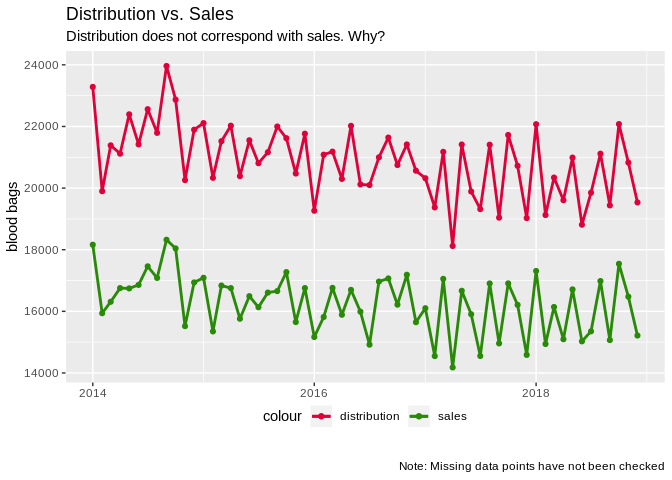
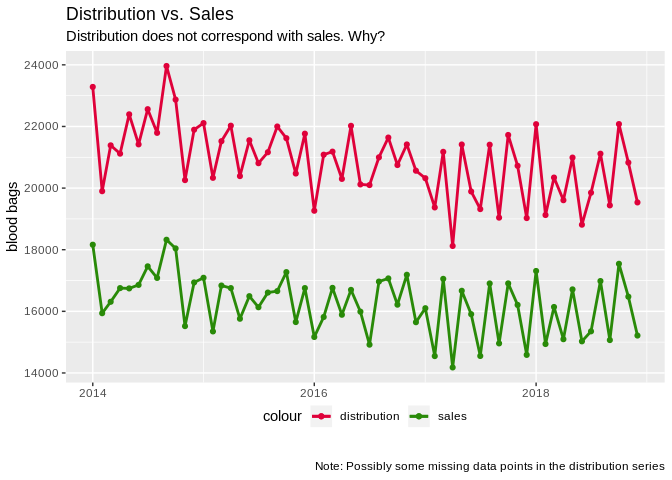
fix displayed errors

Changed region(s): [[0.4688, 0.9688, 1.0, 1.0]]

diff --git a/src/delivery_lab.md b/src/delivery_lab.md
@@ -109,6 +109,121 @@ ABplus.distr <- aggregate(ABplus$quantity, by = list(ABplus$date), sum); colname
 we have the problem where the smaller ABO series don’t add up to
 “all.distr”.*
 
+## Data goodness checks
+
+``` r
+alldates <- seq(from = as.Date("2014-01-01"), to = as.Date("2019-07-07"), by = "day")
+typedates <- list(all.distr$date, Ominus.distr$date, Oplus.distr$date, Aminus.distr$date, Aplus.distr$date, Bminus.distr$date, Bplus.distr$date, ABminus.distr$date, ABplus.distr$date)
+types <- list("All", "O-", "O+", "A-", "A+", "B-", "B+", "AB-", "AB+")
+for(i in seq(9)){
+  cat("Missing observations in ", types[[i]], ": ", length(alldates[!alldates %in% typedates[[i]]]), "\n")
+}
+```
+
+    ## Missing observations in  All :  0 
+    ## Missing observations in  O- :  7 
+    ## Missing observations in  O+ :  0 
+    ## Missing observations in  A- :  32 
+    ## Missing observations in  A+ :  0 
+    ## Missing observations in  B- :  129 
+    ## Missing observations in  B+ :  33 
+    ## Missing observations in  AB- :  353 
+    ## Missing observations in  AB+ :  140
+
+Some blood types seem to have quite a lot of missing days. Let’s look at
+the series more closely to get an estimate of the ratio between zeros
+and actual missing data.
+
+``` r
+ggplot(data = all.distr, aes(x = pcs)) + geom_histogram(binwidth = 1) + 
+  labs(title = "All",
+       subtitle = "Smallest value found: 2",
+       caption = "", 
+       x = "pcs", y = "count")
+```
+
+![](delivery_lab_files/figure-gfm/histograms-1.png)<!-- -->
+
+``` r
+ggplot(data = Ominus.distr, aes(x = pcs)) + geom_histogram(binwidth = 1) + 
+  labs(title = "O-",
+       subtitle = "All 7 missing values could be zeroes",
+       caption = "", 
+       x = "pcs", y = "count")
+```
+
+![](delivery_lab_files/figure-gfm/histograms-2.png)<!-- -->
+
+``` r
+ggplot(data = Oplus.distr, aes(x = pcs)) + geom_histogram(binwidth = 1) + 
+  labs(title = "O+",
+       subtitle = "Smallest value found: 4",
+       caption = "", 
+       x = "pcs", y = "count")
+```
+
+![](delivery_lab_files/figure-gfm/histograms-3.png)<!-- -->
+
+``` r
+ggplot(data = Aminus.distr, aes(x = pcs)) + geom_histogram(binwidth = 1) + 
+  labs(title = "A-",
+       subtitle = "All 32 missing values could be zeroes",
+       caption = "", 
+       x = "pcs", y = "count")
+```
+
+![](delivery_lab_files/figure-gfm/histograms-4.png)<!-- -->
+
+``` r
+ggplot(data = Aplus.distr, aes(x = pcs)) + geom_histogram(binwidth = 1) + 
+  labs(title = "A+",
+       subtitle = "Smallest value found: 1",
+       caption = "", 
+       x = "pcs", y = "count")
+```
+
+![](delivery_lab_files/figure-gfm/histograms-5.png)<!-- -->
+
+``` r
+ggplot(data = Bminus.distr, aes(x = pcs)) + geom_histogram(binwidth = 1) + 
+  labs(title = "B-",
+       subtitle = "129 zeroes would be a lot, possibly missing data?",
+       caption = "", 
+       x = "pcs", y = "count")
+```
+
+![](delivery_lab_files/figure-gfm/histograms-6.png)<!-- -->
+
+``` r
+ggplot(data = Bplus.distr, aes(x = pcs)) + geom_histogram(binwidth = 1) + 
+  labs(title = "B+",
+       subtitle = "All 33 missing values could be zeroes",
+       caption = "", 
+       x = "pcs", y = "count")
+```
+
+![](delivery_lab_files/figure-gfm/histograms-7.png)<!-- -->
+
+``` r
+ggplot(data = ABminus.distr, aes(x = pcs)) + geom_histogram(binwidth = 1) + 
+  labs(title = "AB-",
+       subtitle = "353 zeroes would be a lot, possibly missing data?",
+       caption = "", 
+       x = "pcs", y = "count")
+```
+
+![](delivery_lab_files/figure-gfm/histograms-8.png)<!-- -->
+
+``` r
+ggplot(data = ABplus.distr, aes(x = pcs)) + geom_histogram(binwidth = 1) + 
+  labs(title = "AB+",
+       subtitle = "140 zeroes would be a lot, possibly missing data?",
+       caption = "", 
+       x = "pcs", y = "count")
+```
+
+![](delivery_lab_files/figure-gfm/histograms-9.png)<!-- -->
+
 ## First sanity check: does distribution data agree with sales data?
 
 ``` r
@@ -130,7 +245,7 @@ ggplot() +
   theme(legend.position = "bottom", legend.margin = margin(t = -20, b = 20)) +
   labs(title = "Distribution vs. Sales",
        subtitle = "Distribution does not correspond with sales. Why?",
-       caption = "Note: Missing data points have not been checked", 
+       caption = "Note: Possibly some missing data points in the distribution series", 
        x = "", y = "blood bags") 
 ```
 
@@ -152,7 +267,7 @@ ggplot() +
   theme(legend.position = "bottom", legend.margin = margin(t = -20, b = 20)) +
   labs(title = "Distribution vs. Sales",
        subtitle = "Distribution does not correspond with sales. Why?",
-       caption = "Note: Missing data points have not been checked", 
+       caption = "Note: Level correction of -4000 pcs applied to distributions data", 
        x = "", y = "blood bags") 
 ```
 
@@ -161,8 +276,8 @@ ggplot() +
 ## Forecasting deliveries
 
 ``` r
-distr.mts<- msts(all.distr$pcs, start = 2013, seasonal.periods = c(7, 365.25))
-distr.mts<- window(distr.mts, start = 2014)
+distr.mts <- msts(all.distr$pcs, start = 2013, seasonal.periods = c(7, 365.25))
+distr.mts <- window(distr.mts, start = 2014)
 fit <- tbats(distr.mts)
 ```
 
@@ -171,7 +286,7 @@ fc <- predict(fit, h = 21)
 autoplot(fc, main = "3 week prediction with TBATS", include = 21)
 ```
 
-![](delivery_lab_files/figure-gfm/unnamed-chunk-2-1.png)<!-- -->
+![](delivery_lab_files/figure-gfm/unnamed-chunk-3-1.png)<!-- -->
 
 The model clearly seems to have an idea about the weekly pattern. Let’s
 run a rolling partition test (a kind of CV) and average out the MAPEs to
@@ -285,7 +400,7 @@ fcast <- data.frame(date = seq(from = as.Date("2019-01-01"), to = as.Date("2019-
 ggplot() + geom_line(data = fcast, aes(x = date, y = preds))
 ```
 
-![](delivery_lab_files/figure-gfm/unnamed-chunk-6-1.png)<!-- -->
+![](delivery_lab_files/figure-gfm/unnamed-chunk-7-1.png)<!-- -->
 
 The produced forecast seems be similar with the TBATS forecast. Let’s
 run a similar partitioning check.
@@ -359,13 +474,13 @@ cat("
     ===========================
     
     MAPE
-    AVG: ", round(mean(mapes), digits = 2),
+    AVG: ", round(mean(lm.mapes), digits = 2),
     "
-    SD: ", round(sd(mapes), digits = 2),
+    SD: ", round(sd(lm.mapes), digits = 2),
     "
-    MAX: ", round(max(mapes), digits = 2),
+    MAX: ", round(max(lm.mapes), digits = 2),
     "
-    MIN: ", round(min(mapes), digits = 2))
+    MIN: ", round(min(lm.mapes), digits = 2))
 ```
 
     ## 
@@ -374,9 +489,40 @@ cat("
     ##     ===========================
     ##     
     ##     MAPE
-    ##     AVG:  59.92 
-    ##     SD:  77.19 
-    ##     MAX:  246.36 
-    ##     MIN:  6.96
+    ##     AVG:  64.56 
+    ##     SD:  78.52 
+    ##     MAX:  263.22 
+    ##     MIN:  10.46
 
-The errors are exactly similar.
+TBATS performs slightly better.
+
+Let’s see how well this is suited for monthly forecasting.
+
+``` r
+# Do daily forecasts
+distr.mts <- msts(all.distr$pcs, start = 2013, seasonal.periods = c(7, 365.25)) # Redo series
+es <- c()
+for(i in seq(from = 730, to = length(distr.mts), by = 1)){
+  train <- window(distr.mts,
+                  start = c(decimal_date(as.Date("2013-01-01"))),
+                  end = c(decimal_date(as.Date("2013-01-01")), i))
+  test <- distr.mts[i + 1]
+  fit <- tbats(train)
+  fcast <- predict(fit, h = 1)
+  e <- test - fcast$'Point Forecast'
+  es <- c(es, e)
+}
+```
+
+``` r
+# Sum up errors by month
+mons <- rep(c(31, 28, 31, 30, 31, 30, 31, 31, 30, 31, 30, 31), 4)
+
+moving_index <- 1
+mon.es <- c()
+for(i in mons){
+  mon.e <- sum(es[moving_index:(moving_index -1 + i)])
+  moving_index <- moving_index + i
+  mon.es <- c(mon.es, mon.e)
+  }
+```
